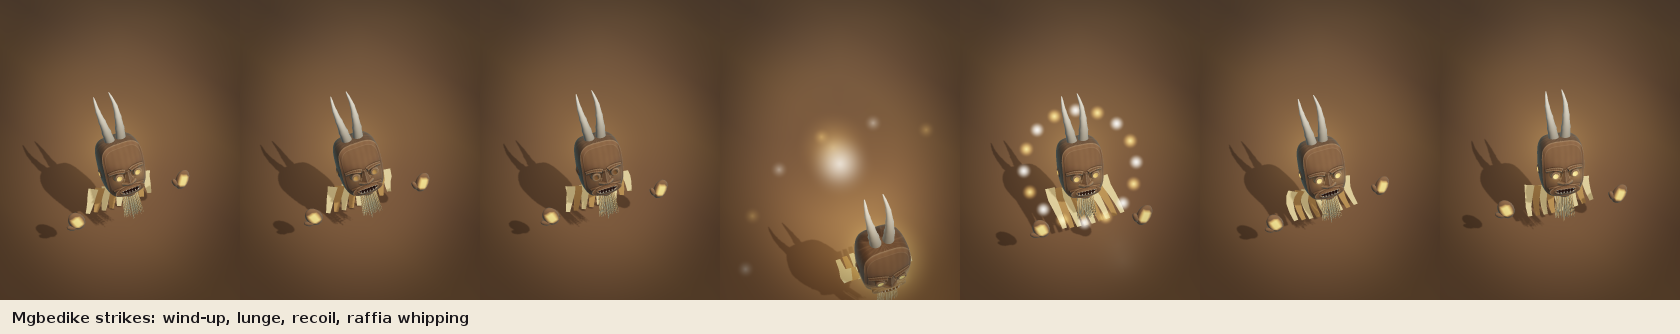
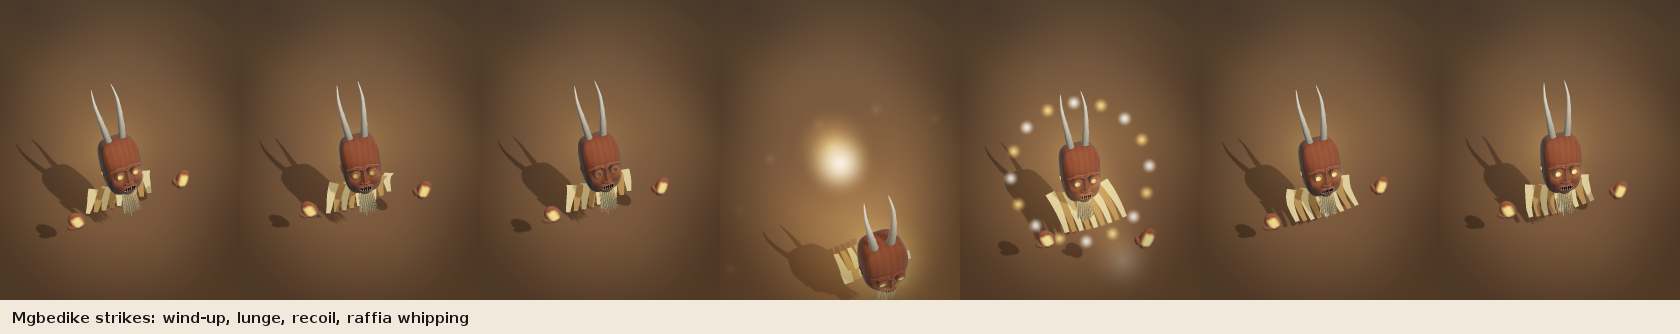
Generated monsters wear carved masks; refreshed mask screenshots
- CharacterMasks.sculptedFor: each kind of monster gets a carved mask from
  a tradition chosen by its name (else its id's seed; bosses and champions
  from the great masquerades), rolled from the same seed, grander by rank.
  Pack genome overrides still win; carver codes are worn as given.
- MaskCharacters carves them off the frame (FAR for minions and elites,
  GAME for champions and bosses), moving with their tradition's motion;
  sculptedMonsters = false restores the genome masks.
- Sculpted mesh cache holds 64.
- Screenshots: traditions, portraits, turn, rolls, party, generated
  monsters, close wood portraits, carver sheets, looping animation GIFs.

Claude-Session: https://claude.ai/code/session_012NjHhwH1EvBHzbd255Gvhb

diff --git a/engine/model/src/main/kotlin/com/stratum/engine/model/mask/CharacterMasks.kt b/engine/model/src/main/kotlin/com/stratum/engine/model/mask/CharacterMasks.kt
@@ -84,6 +84,52 @@ object CharacterMasks {
         }
     }
 
+    /**
+     * The carved mask a monster wears: one of the sculpted traditions, chosen
+     * from what the monster is called (a "brute" is Mgbedike, a "maiden"
+     * Agbogho Mmuo), else from a seed of its id, and rolled within that
+     * tradition's grammar from the same seed, so every kind of monster has
+     * its own mask and always the same one. Its rank makes it grander: a
+     * boss's crown towers, its raffia hangs long. Bosses and champions with
+     * no telling name are drawn from the great masquerades.
+     *
+     * Null when [override] names a genome or preset of its pack: an authored
+     * mask wins. A carver share code as the override is worn as it is.
+     */
+    fun sculptedFor(definitionId: String, rank: EnemyRank = EnemyRank.MINION, override: String? = null): com.stratum.engine.model.mask.sculpt.MaskSpec? {
+        val sculpt = com.stratum.engine.model.mask.sculpt.MaskCulture
+        override?.trim()?.takeIf { it.isNotBlank() }?.let { text ->
+            return com.stratum.engine.model.mask.sculpt.MaskCarver.decode(text)
+        }
+        val seed = stableSeed(definitionId)
+        val word = definitionId.lowercase()
+        fun one(vararg ids: String) = ids[Math.floorMod(seed, ids.size.toLong()).toInt()]
+        val id = when {
+            listOf("brute", "warrior", "ogu", "brave", "raider", "bandit", "war").any { it in word } -> one("mgbedike", "bugle")
+            listOf("elephant", "enyi", "tusk", "golem", "giant").any { it in word } -> "ogbodo_enyi"
+            listOf("guardian", "king", "ijele", "lord", "chief", "royal").any { it in word } -> one("ijele", "mwaash_ambooy")
+            listOf("maiden", "mmuo", "spirit", "wraith", "ghost").any { it in word } -> one("agbogho_mmuo", "punu")
+            listOf("shadow", "night", "ojo", "dark", "water", "river").any { it in word } -> "okoroshi"
+            listOf("ram", "horn", "ikenga", "hunter").any { it in word } -> "ikenga"
+            listOf("leopard", "beast", "storm", "lightning").any { it in word } -> "songye"
+            listOf("judge", "witch", "sorcer", "hex").any { it in word } -> "fang"
+            listOf("mother", "matron", "elder").any { it in word } -> one("gelede", "chokwe")
+            listOf("bird", "sun", "fire").any { it in word } -> one("senufo", "dogon")
+            listOf("bush", "forest", "wild").any { it in word } -> "bwa"
+            rank == EnemyRank.BOSS || rank == EnemyRank.CHAMPION -> one("ijele", "gelede", "mwaash_ambooy", "mgbedike", "dogon", "bwa")
+            else -> sculpt.traditions[Math.floorMod(seed, sculpt.traditions.size.toLong()).toInt()].id
+        }
+        val spec = sculpt.generate(sculpt.tradition(id), seed, name = definitionId)
+        val menace = when (rank) { EnemyRank.MINION -> 0f; EnemyRank.ELITE -> 0.3f; EnemyRank.CHAMPION -> 0.6f; EnemyRank.BOSS -> 1f }
+        return spec.copy(crownSize = maxOf(spec.crownSize, 0.35f + 0.6f * menace), raffia = maxOf(spec.raffia, 0.7f * menace))
+    }
+
+    /** How finely a monster's carved mask is cut: minions are small on screen, bosses fill it. */
+    fun sculptDetailFor(rank: EnemyRank): com.stratum.engine.model.mask.sculpt.MaskSculptor.Detail = when (rank) {
+        EnemyRank.MINION, EnemyRank.ELITE -> com.stratum.engine.model.mask.sculpt.MaskSculptor.Detail.FAR
+        EnemyRank.CHAMPION, EnemyRank.BOSS -> com.stratum.engine.model.mask.sculpt.MaskSculptor.Detail.GAME
+    }
+
     /** A seed from an id that does not change between runs or JVMs (String.hashCode is specified, but mix it further). */
     private fun stableSeed(id: String): Long {
         var h = 1125899906842597L

diff --git a/engine/model/src/main/kotlin/com/stratum/engine/model/mask/MaskCharacters.kt b/engine/model/src/main/kotlin/com/stratum/engine/model/mask/MaskCharacters.kt
@@ -164,7 +164,15 @@ class MaskCharacters(
     private var frame = 0
 
     /** A monster definition's mask, mesh and profile, worked out once. */
-    private class Look(val genome: MaskGenome, val profile: MotionProfile, val height: Float) {
+    /**
+     * Monsters wear masks carved after the sculpted traditions
+     * ([CharacterMasks.sculptedFor]); false gives them the simpler genome
+     * masks. An override naming a pack's genome or preset is always worn.
+     */
+    var sculptedMonsters: Boolean = true
+        set(value) { if (field != value) { field = value; looks.clear() } }
+
+    private class Look(val genome: MaskGenome, val profile: MotionProfile, val height: Float, val carved: com.stratum.engine.model.mask.sculpt.MaskSpec? = null, val rank: EnemyRank = EnemyRank.MINION) {
         @Volatile var mesh: SpiritMesh? = null
         @Volatile var building = false
     }
@@ -347,19 +355,27 @@ class MaskCharacters(
         val key = key(definitionId, rank, maskOverride)
         val look = looks.getOrPut(key) {
             val genome = CharacterMasks.genomeFor(definitionId, rank, maskOverride)
-            val profileId = motionOverride ?: CharacterMasks.profileIdFor(genome)
-            val profile = MotionProfiles.resolve(profileId, profileOverrides, MotionProfiles.resolve(CharacterMasks.profileIdFor(genome), profileOverrides))
-            Look(genome, profile.copy(scale = profile.scale), CharacterMasks.heightFor(rank))
+            val carved = if (sculptedMonsters) CharacterMasks.sculptedFor(definitionId, rank, maskOverride) else null
+            // A carved mask moves as its tradition's spirits do.
+            val own = carved?.let { com.stratum.engine.model.mask.sculpt.MaskCulture.tradition(it.tradition.substringBefore('+')).motion } ?: CharacterMasks.profileIdFor(genome)
+            val profile = MotionProfiles.resolve(motionOverride ?: own, profileOverrides, MotionProfiles.resolve(own, profileOverrides))
+            Look(genome, profile.copy(scale = profile.scale), CharacterMasks.heightFor(rank), carved, rank)
         }
         if (look.mesh == null && !look.building) {
             val budget = budgetFor(rank)
+            val build = {
+                val carved = look.carved
+                if (carved != null) runCatching { com.stratum.engine.model.mask.sculpt.MaskSculptor.cached(carved, CharacterMasks.sculptDetailFor(look.rank)) }.getOrNull()
+                    ?: MaskSpiritMesher.cached(look.genome, budget)
+                else MaskSpiritMesher.cached(look.genome, budget)
+            }
             val exec = builder
             if (exec == null) {
-                look.mesh = MaskSpiritMesher.cached(look.genome, budget)
+                look.mesh = build()
             } else {
                 look.building = true
                 exec.execute {
-                    look.mesh = runCatching { MaskSpiritMesher.cached(look.genome, budget) }.getOrNull()
+                    look.mesh = runCatching { build() }.getOrNull()
                     look.building = false
                 }
             }

diff --git a/engine/model/src/test/kotlin/com/stratum/engine/model/mask/SculptedMonstersTest.kt b/engine/model/src/test/kotlin/com/stratum/engine/model/mask/SculptedMonstersTest.kt
@@ -1,0 +1,53 @@
+package com.stratum.engine.model.mask
+
+import com.stratum.core.domain.actor.EnemyRank
+import com.stratum.engine.model.mask.sculpt.MaskCarver
+import com.stratum.engine.model.mask.sculpt.MaskCulture
+import kotlin.test.Test
+import kotlin.test.assertEquals
+import kotlin.test.assertNotEquals
+import kotlin.test.assertNotNull
+import kotlin.test.assertNull
+import kotlin.test.assertTrue
+
+class SculptedMonstersTest {
+
+    @Test
+    fun `a kind of monster always wears the same carved mask, and kinds differ`() {
+        assertEquals(CharacterMasks.sculptedFor("forest_brute"), CharacterMasks.sculptedFor("forest_brute"))
+        val masks = (1..40).map { CharacterMasks.sculptedFor("monster_$it")!! }
+        assertTrue(masks.toSet().size == masks.size, "every kind its own mask")
+        assertTrue(masks.map { it.tradition }.toSet().size >= 8, "drawn from many traditions")
+    }
+
+    @Test
+    fun `a telling name chooses the tradition`() {
+        assertTrue(CharacterMasks.sculptedFor("river_ghost_maiden")!!.tradition in setOf("agbogho_mmuo", "punu"))
+        assertEquals("ogbodo_enyi", CharacterMasks.sculptedFor("stone_golem")!!.tradition)
+    }
+
+    @Test
+    fun `rank makes the same face grander`() {
+        val minion = CharacterMasks.sculptedFor("cave_thing", EnemyRank.MINION)!!
+        val boss = CharacterMasks.sculptedFor("cave_thing", EnemyRank.BOSS)!!
+        assertTrue(boss.crownSize >= minion.crownSize && boss.crownSize >= 0.9f)
+        assertNotEquals(minion, boss)
+    }
+
+    @Test
+    fun `an authored genome wins, and a carver code is worn as it is`() {
+        assertNull(CharacterMasks.sculptedFor("x", override = MaskGenome.presets.first().name))
+        val code = MaskCarver.encode(MaskCulture.generate(MaskCulture.tradition("dan"), 5L))
+        assertEquals("dan", CharacterMasks.sculptedFor("x", override = code)!!.tradition)
+    }
+
+    @Test
+    fun `monsters fly carved masks`() {
+        val chars = MaskCharacters()
+        chars.begin()
+        assertNotNull(chars.monster("m1", "night_raider", EnemyRank.ELITE, 0f, 0f, 0f, 0f, 1f))
+        chars.advance(1f / 30f)
+        val mesh = chars.spirits.single().mesh
+        assertTrue(mesh.triangleCount > 500 && mesh.channels.any { it == com.stratum.engine.scene.GlowChannel.EYES })
+    }
+}

diff --git a/tools/artpreview/src/main/kotlin/com/stratum/tools/artpreview/MaskSpiritPreview.kt b/tools/artpreview/src/main/kotlin/com/stratum/tools/artpreview/MaskSpiritPreview.kt
@@ -56,6 +56,7 @@ object MaskSpiritPreview {
         if (only == "sculpt-stills") sculptedMasks(out, animations = false, quick = true)
         if (only == "carver") carver(out)
         if (only == "wood") wood(out)
+        if (only == "monsters") monsters(out)
         // spirits, spirits-quick, or one section: spirits-quick:fractures
         if (only != null && only.startsWith("spirits")) SpiritMaskShots.all(out, quick = only.startsWith("spirits-quick"), only = only.substringAfter(':', "").ifEmpty { null })
     }
@@ -228,6 +229,24 @@ object MaskSpiritPreview {
             decals = MeshBuilder(MaterialKind.DECAL).build(recycler), glows = glows.build(recycler),
         )
         return SceneRasterizer(width, height, TextureLibrary(), supersample = 3, shadowSize = 2048).render(frame)
+    }
+
+    /** Generated monsters as the game dresses them: each kind's carved mask from its name and rank. */
+    private fun monsters(out: File) {
+        val ranks = com.stratum.core.domain.actor.EnemyRank.entries
+        val names = listOf(
+            "forest_brute", "river_ghost", "stone_golem", "night_raider", "storm_leopard", "hex_witch", "ram_hunter", "bush_spirit",
+            "ash_wanderer", "grave_keeper", "mire_crawler", "dune_stalker", "royal_guardian", "elder_mother", "sun_bird", "cave_thing",
+        )
+        val cards = names.mapIndexed { i, n ->
+            val rank = ranks[i % ranks.size]
+            val spec = com.stratum.engine.model.mask.CharacterMasks.sculptedFor(n, rank)!!
+            val mesh = com.stratum.engine.model.mask.sculpt.MaskSculptor.carve(spec, com.stratum.engine.model.mask.sculpt.MaskSculptor.Detail.HIGH)
+            val (tz, dist) = framing(mesh, 4.4f)
+            val tr = com.stratum.engine.model.mask.sculpt.MaskCulture.tradition(spec.tradition)
+            labelled(isoScene(listOf(single(mesh, 0f, 0f, 0.35f)), 300, 360, distance = dist, target = Vec3(0f, 0f, tz)), "$n · ${rank.name.lowercase()} · ${tr.name}")
+        }
+        ImageIO.write(sheet(cards, 4), "png", File(out, "generated-monsters.png"))
     }
 
     /** Close portraits of the traditions, to judge the carving itself: in play's detail and the finest. */

diff --git a/engine/model/src/main/kotlin/com/stratum/engine/model/mask/sculpt/MaskSculptor.kt b/engine/model/src/main/kotlin/com/stratum/engine/model/mask/sculpt/MaskSculptor.kt
@@ -61,7 +61,8 @@ object MaskSculptor {
     enum class Detail(val cell: Float) { SHOWCASE(0.0055f), HIGH(0.008f), GAME(0.013f), FAR(0.02f) }
 
     private val cache = object : LinkedHashMap<String, SpiritMesh>(16, 0.75f, true) {
-        override fun removeEldestEntry(eldest: MutableMap.MutableEntry<String, SpiritMesh>?): Boolean = size > 24
+        // Room for every kind of monster in a big fight, and the hero, without carving any twice.
+        override fun removeEldestEntry(eldest: MutableMap.MutableEntry<String, SpiritMesh>?): Boolean = size > 64
     }
 
     fun cached(spec: MaskSpec, detail: Detail = Detail.GAME): SpiritMesh {

diff --git a/docs/MASK-CARVING.md b/docs/MASK-CARVING.md
@@ -42,6 +42,20 @@ New in this round: the arched, knob-studded crests of Agbogho Mmuo
 Nsibidi-style incised signs (composed from that script's strokes; they copy no
 real glyph and claim no meaning).
 
+## Generated monsters
+
+Every monster wears a carved mask (`CharacterMasks.sculptedFor`): its
+tradition chosen from what it is called (a brute is Mgbedike or Bugle, a ghost
+or maiden Agbogho Mmuo or Okuyi, a golem the elephant mask), otherwise from a
+seed of its id, with bosses and champions drawn from the great masquerades.
+The mask is rolled within that tradition's grammar from the same seed, so each
+kind of monster always wears the same mask and no two kinds share one; rank
+makes the same face grander. A pack's own genome or preset override still
+wins. `MaskCharacters.sculptedMonsters = false` returns to the simpler genome
+masks.
+
+![Generated monsters](screenshots/sculpted-masks/generated-monsters.png)
+
 ## Seen in play
 
 ![The traditions from the game's camera](screenshots/sculpted-masks/sculpt-traditions.png)
@@ -55,3 +69,4 @@ fall), their eyes and lines lit by what they are doing; see the looping
     ./gradlew :tools:artpreview:maskSpiritPreview -Pout=docs/screenshots/sculpted-masks -Ponly=sculpt
     ./gradlew :tools:artpreview:maskSpiritPreview -Pout=docs/screenshots/carved-wood -Ponly=wood
     ./gradlew :tools:artpreview:maskSpiritPreview -Pout=docs/screenshots/mask-carver -Ponly=carver
+    ./gradlew :tools:artpreview:maskSpiritPreview -Pout=docs/screenshots/sculpted-masks -Ponly=monsters
